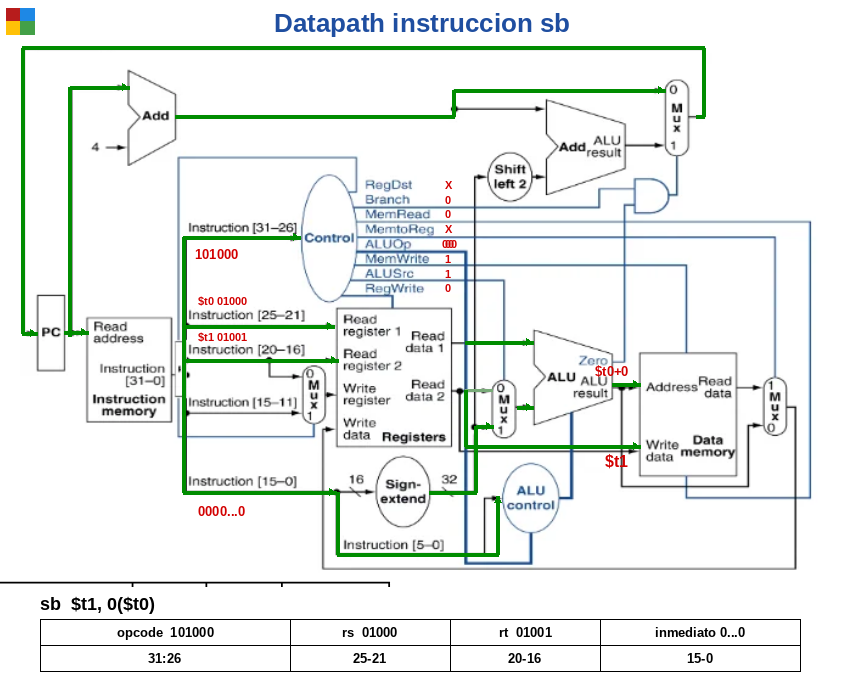
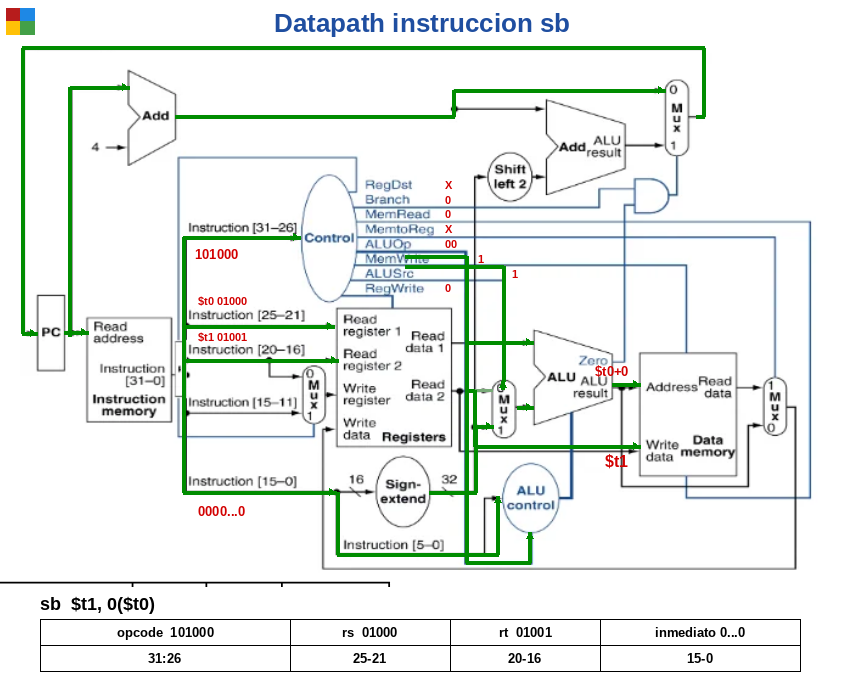
Agregar cables reales que salen de Control: ALUOp y ALUSrc
En el diagrama base solo dos señales de control tienen un cable
trazado hasta su destino (las demas solo se etiquetan junto al
ovalo): ALUOp baja hasta ALU control, y ALUSrc baja hasta el
selector del MUX. Se agregan ambos caminos (ALUSrc=1 es la senal
activa en sb) y se corrige tambien el punto donde Read data 2 se
bifurca hacia Write data (x=474, no x=465, que era el cable de
ALUOp pasando muy cerca).

diff --git a/gen_sb_v4.py b/gen_sb_v4.py
@@ -62,13 +62,19 @@ seg([(465, 296), (533, 296)]); tip((525, 296), (533, 296))
 seg([(465, 344), (492, 344)], color=(120, 170, 120, 255), w=3)
 
 # 7. Read data 2 ($t1) -> Data memory Write data  (CAMINO DE STORE, clave; pasa por ARRIBA de ALU control)
-seg([(465, 344), (465, 400), (640, 400)]); tip((632, 400), (640, 400))
+seg([(465, 344), (474, 344), (474, 400), (640, 400)]); tip((632, 400), (640, 400))
 
 # 8. Sign-extend (offset=0) -> MUX ALUSrc input 1 (SELECCIONADA, ALUSrc=1)
 seg([(429, 446), (476, 446), (476, 380), (493, 380)]); tip((485, 380), (493, 380))
 
 # 9. MUX ALUSrc -> ALU segundo operando
 seg([(517, 361), (533, 361)]); tip((525, 361), (533, 361))
+
+# 10. Control: ALUOp -> ALU control (codigo que le dice "sumar")
+seg([(405, 210), (466, 210), (466, 516), (530, 516), (530, 486)]); tip((530, 494), (530, 486))
+
+# 10b. Control: ALUSrc -> selector del MUX (ALUSrc=1, activo)
+seg([(405, 220), (503, 220), (503, 335)]); tip((503, 343), (503, 335))
 
 # 11. ALU result -> Data memory Address
 seg([(612, 338), (640, 338)]); tip((633, 338), (640, 338))
@@ -92,13 +98,12 @@ rt_text((198, 291), "$t1 01001", fsig)      # rt = $t1 (dato a guardar)
 rt_text((198, 465), "0000...0", frs)        # inmediato (offset)
 rt_text((595, 325), "$t0+0", frs)           # direccion calculada por la ALU
 rt_text((605, 415), "$t1", fr)              # dato escrito en memoria
-rt_text((442, 198), "00", fsig)             # ALUOp
-
-# señales de control (a la derecha de sus etiquetas, misma fila que el texto azul)
-sig_vals = [("X", 139), ("0", 154), ("0", 168), ("X", 183),
-            ("00", 198), ("1", 213), ("1", 228), ("0", 242)]
-for v, y in sig_vals:
-    d.text((445, y), v, fill=RED, font=fsig, anchor="lm")
+# señales de control (a la derecha de sus etiquetas; MemWrite y ALUSrc se corren
+# en x porque ahi pasan los cables reales de ALUOp y ALUSrc hacia sus destinos)
+sig_vals = [("X", 139, 445), ("0", 154, 445), ("0", 168, 445), ("X", 183, 445),
+            ("00", 198, 445), ("1", 213, 478), ("1", 228, 512), ("0", 242, 445)]
+for v, y, x in sig_vals:
+    d.text((x, y), v, fill=RED, font=fsig, anchor="lm")
 
 result = Image.alpha_composite(base, ov).convert("RGB")
 
